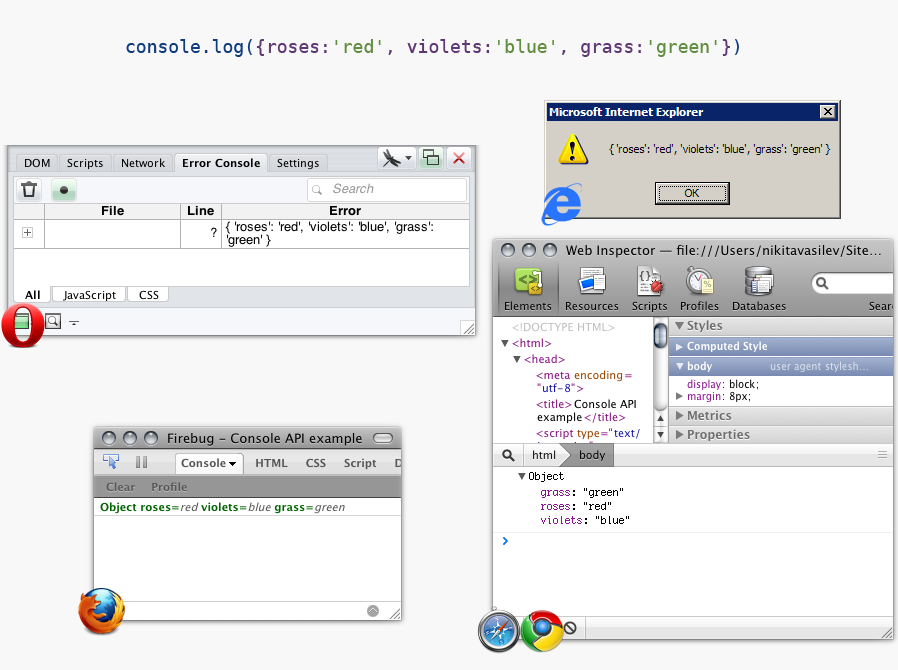
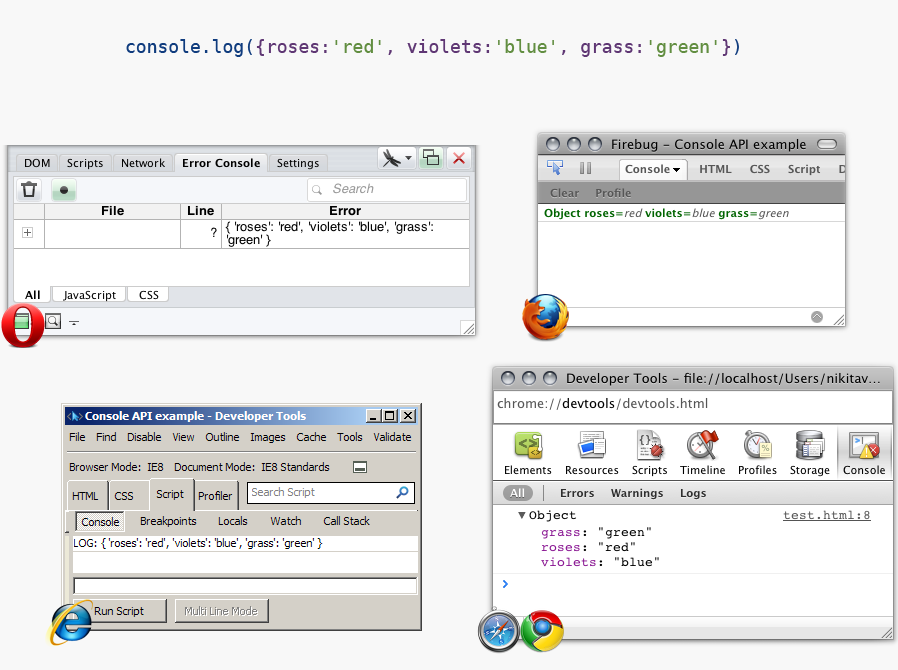
No more annoying alerts

Changed region(s): [[0.5301, 0.1493, 0.9978, 0.8657], [0.0312, 0.597, 0.4677, 0.9552], [0.6236, 0.9254, 0.6548, 0.9552]]

diff --git a/console.js b/console.js
@@ -7,7 +7,12 @@ if (typeof console === 'undefined') {
 
 (function(){
   
-  var post = console.log || window.opera && opera.postError || alert;
+  var post = console.log || window.opera && opera.postError || function dump (message) {
+    if (typeof console.history === 'undefined') {
+      console.history = [];
+    }
+    console.history.push(message);
+  };
 
   /**
    * Limit of objects dimensions
